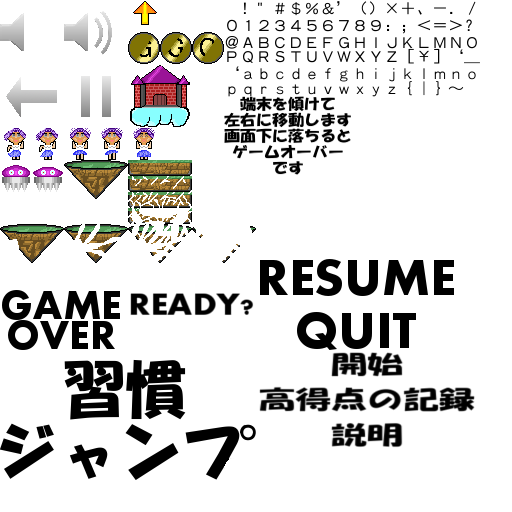
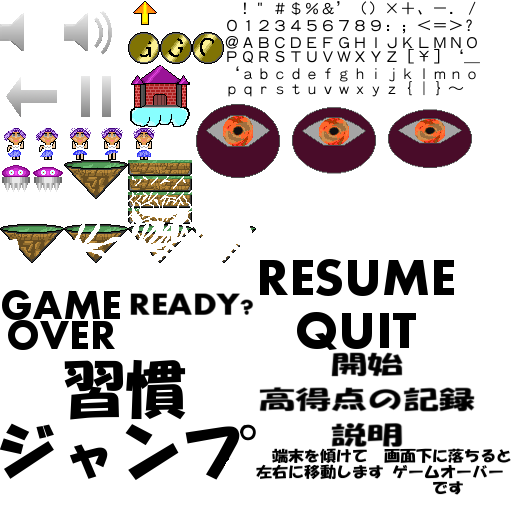
ボス表示
・テスト表示

Changed region(s): [[0.375, 0.1875, 0.9375, 0.3438], [0.5, 0.875, 1.0, 0.9688]]

diff --git a/src/com/zukirou/habitofjump/World.java b/src/com/zukirou/habitofjump/World.java
@@ -31,7 +31,7 @@ public class World {
 	public Castle castle;
 	public final WorldListener listener;
 	public final Random rand;
-	
+		
 	public float heightSoFar;
 	public int score;
 	public int state;
@@ -42,6 +42,7 @@ public class World {
 	public float umaX;
 	public float umaY;
 	public float becomePulverizer = 0.5f;
+	public Boss boss;
 	
 	public World(WorldListener listener){
 		this.pc = new PC(5, 0);
@@ -51,6 +52,8 @@ public class World {
 		this.umaToges = new ArrayList<UmaToge>();
 		this.coins = new ArrayList<Coin>();
 		this.listener = listener;
+		
+		this.boss = new Boss(WORLD_WIDTH / 2, 13);
 		
 		rand = new Random();
 		generateLevel();
@@ -65,7 +68,7 @@ public class World {
 		float maxJumpHeight = PC.PC_JUMP_VELOCITY * PC.PC_JUMP_VELOCITY / (2 * -gravity.y);		
 		while(y < WORLD_HEIGHT - WORLD_WIDTH / 2){		
 			switch(roundLevel){
-	/*		
+			/*
 			case 0:
 				platformType = Platform.PLATFORM_TYPE_NONBREAK;
 				platformX = 5;
@@ -115,9 +118,8 @@ public class World {
 					umaToges.add(umaToge);
 				}
 				break;
-				*/
-			case 0:
 
+			case 5:
 				platformX = rand.nextFloat() * (WORLD_WIDTH - Platform.PLATFORM_WIDTH) + Platform.PLATFORM_WIDTH / 2;
 				umaX = rand.nextFloat() * (WORLD_WIDTH - Uma.UMA_WIDTH) + Uma.UMA_WIDTH / 2; 
 				if(y > 0 && y < 20 || y > 30 && y < 50 || y > 60 && y < 70){
@@ -127,10 +129,14 @@ public class World {
 					Uma uma = new Uma(umaX + (rand.nextFloat() * rand.nextFloat() > 0.5f ? 1 : -1), y + Uma.UMA_HEIGHT);// + rand.nextFloat() * 2);
 					umas.add(uma);
 					UmaToge umaToge = new UmaToge(umaX + rand.nextFloat(), y + UmaToge.UMA_TOGE_HEIGHT);// + rand.nextFloat() * 2);
-					umaToges.add(umaToge);
+					umaToges.add(umaToge);					
 				}
 				break;
-				
+			*/
+			case 0:
+//				Boss boss = new Boss((WORLD_WIDTH / 2) + (rand.nextFloat() * rand.nextFloat() > 0.5f ? 1 : -1), 10 + Uma.UMA_HEIGHT);
+
+				break;
 			default:
 				break;
 			}
@@ -188,6 +194,7 @@ public class World {
 		updateUmas(deltaTime);
 		updateUmaToges(deltaTime);
 		updateCoins(deltaTime);
+		updateBoss(deltaTime);
 		if(pc.state != PC.PC_STATE_HIT)
 			checkCollisions();
 		checkGameOver();
@@ -237,6 +244,11 @@ public class World {
 			coin.update(deltaTime);
 		}
 	}
+	
+	private void updateBoss(float deltaTime){
+		boss.update(deltaTime);
+	}
+
 	
 	private void checkCollisions(){
 		checkPlatformCollisions();

diff --git a/src/com/zukirou/habitofjump/Boss.java b/src/com/zukirou/habitofjump/Boss.java
@@ -1,0 +1,31 @@
+package com.zukirou.habitofjump;
+
+import com.zukirou.gameFrameWork.DynamicGameObject;
+
+public class Boss extends DynamicGameObject{
+	public static final float BOSS_WIDTH = 3;
+	public static final float BOSS_HEIGHT = 2;
+	public static final float BOSS_VELOCITY = 1;
+	
+	float stateTime = 0;
+	
+	public Boss(float x, float y){
+		super (x, y, BOSS_WIDTH, BOSS_HEIGHT);
+		velocity.set(BOSS_VELOCITY, 0);
+	}
+	
+	public void update(float deltaTime){
+		position.add(velocity.x * deltaTime, velocity.y * deltaTime);
+		bounds.lowerLeft.set(position).sub(BOSS_WIDTH / 2, BOSS_HEIGHT / 2);
+		
+		if(position.x < BOSS_WIDTH / 2){
+			position.x = BOSS_WIDTH / 2;
+			velocity.x = BOSS_VELOCITY;
+		}
+		if(position.x > World.WORLD_WIDTH - BOSS_WIDTH / 2){
+			position.x = World.WORLD_WIDTH - BOSS_WIDTH / 2;
+			velocity.x = -BOSS_VELOCITY;
+		}
+		stateTime += deltaTime;
+	}
+}

diff --git a/src/com/zukirou/habitofjump/Assets.java b/src/com/zukirou/habitofjump/Assets.java
@@ -41,6 +41,8 @@ public class Assets{
 	public static Sound coinSound;
 	public static Sound clickSound;
 	
+	public static Animation Boss;
+	
 	public static void load(GLGame game){
 		background = new Texture(game, "background.png");
 		backgroundRegion = new TextureRegion(background, 0, 0, 320, 480);
@@ -96,6 +98,13 @@ public class Assets{
 		hitSound = game.getAudio().newSound("damage.ogg");
 		coinSound = game.getAudio().newSound("goin.ogg");
 		clickSound = game.getAudio().newSound("click.ogg");
+		
+		Boss = new Animation(0.2f,	new TextureRegion(items, 192, 96, 96, 96),
+									new TextureRegion(items, 288, 96, 96, 96),
+									new TextureRegion(items, 384, 96, 96, 96),
+									new TextureRegion(items, 288, 96, 96, 96));
+		
+		
 	}
 	
 	public static void reload(){

diff --git a/src/com/zukirou/habitofjump/WorldRenderer.java b/src/com/zukirou/habitofjump/WorldRenderer.java
@@ -48,6 +48,7 @@ public class WorldRenderer{
 		renderItems();
 		renderUma();
 		renderCastel();
+		renderBoss();
 		batcher.endBatch();
 		gl.glDisable(GL10.GL_BLEND);
 	}
@@ -114,6 +115,13 @@ public class WorldRenderer{
 			batcher.drawSprite(uma.position.x, uma.position.y, side * 1, 0.5f, keyFrame);
 			batcher.drawSprite(umaToge.position.x, umaToge.position.y, toge_side * 1, 0.5f, togeKeyFrame);
 		}
+	}
+	
+	private void renderBoss(){
+		Boss boss = world.boss;
+		TextureRegion keyFrame = Assets.Boss.getKeyFrame(boss.stateTime, Animation.ANIMATION_LOOPING);
+		float side = world.boss.velocity.x < 0 ? -1 : 1;
+		batcher.drawSprite(world.boss.position.x, world.boss.position.y, side * 3, 3, keyFrame);
 	}
 	
 	private void renderCastel(){
